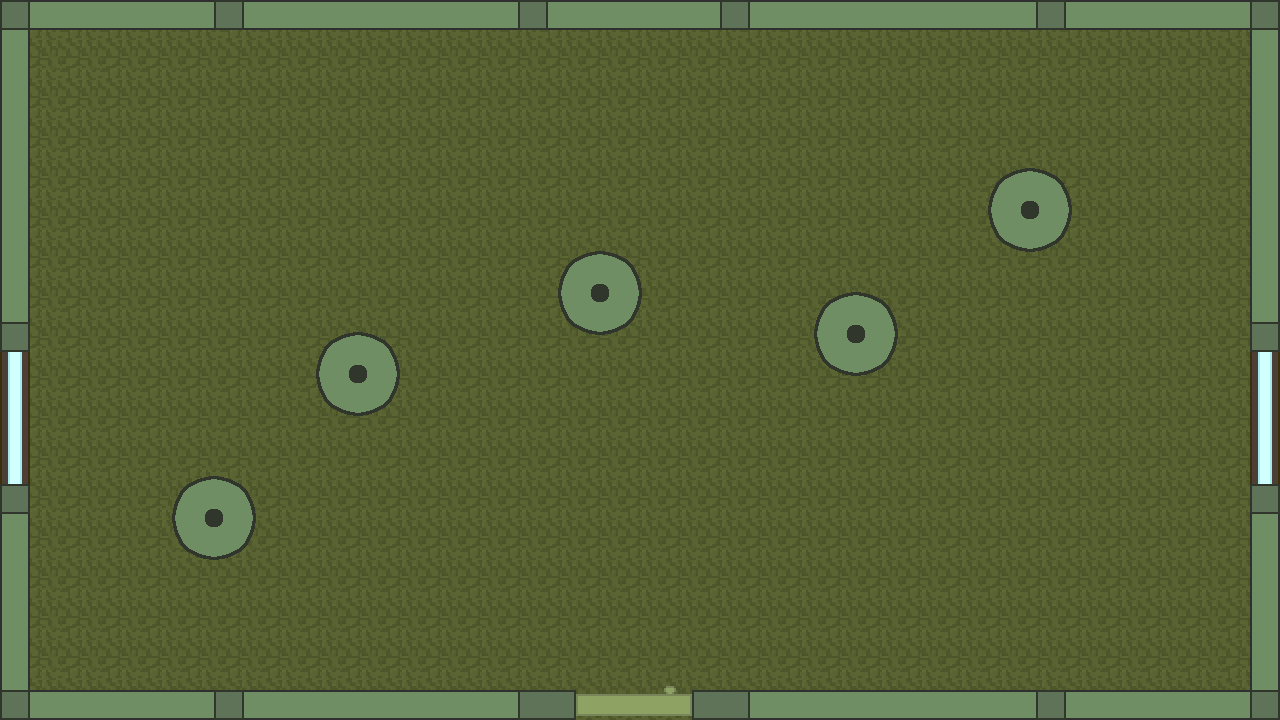
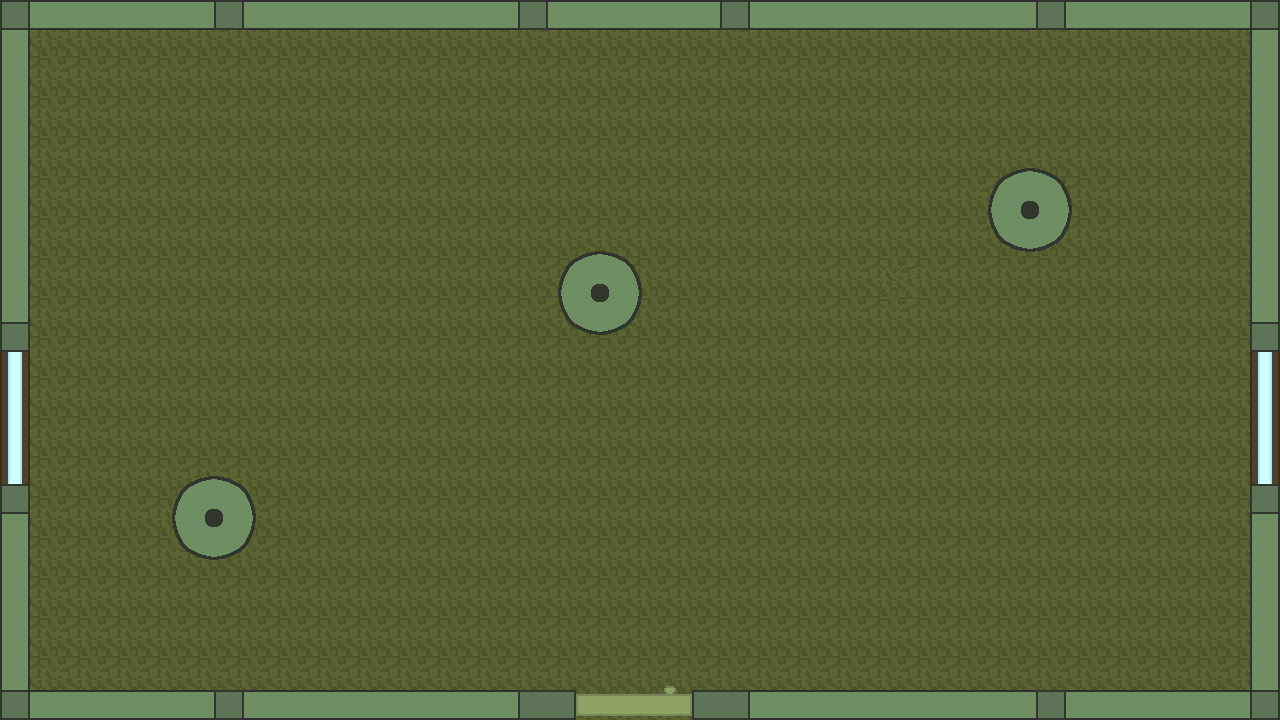
disclaimer + 89 room tweaks
- disclaimer updated to use consistent font
- removed two middle columns (not center) from 8ight 9ine's room
- massive readme update

Changed region(s): [[0.625, 0.3972, 0.7188, 0.5194], [0.25, 0.4583, 0.3125, 0.5806]]

diff --git a/game/enemies.js b/game/enemies.js
@@ -440,10 +440,12 @@ function Thug(game, weapon, x, y) {
         this.weapon.type = 'knife';
         this.faces = 38;
         this.begLag = 110;
-        this.endLag = 45;
+        this.endLag = 35;
         this.hitDur = 14;
         this.range = 90;
         this.ideal = 85;
+        this.maxSpeed = 150;
+        this.mSpeed_init = 150;
     }
     else {
         this.anim.idle = new Animation(ASSET_MANAGER.getAsset('./img/entities/thug_bat.png'), 0, 0, 200, 200, 0.12, 1, true, false);
@@ -457,10 +459,12 @@ function Thug(game, weapon, x, y) {
         this.weapon.type = 'bat';
         this.faces = 28;
         this.begLag = 116;
-        this.endLag = 65;
+        this.endLag = 75;
         this.hitDur = 20;
         this.range = 100;
         this.ideal = 100;
+        this.maxSpeed = 130;
+        this.mSpeed_init = 130;
     }
 
     // Properties
@@ -468,8 +472,6 @@ function Thug(game, weapon, x, y) {
     this.sides = 38;
     this.rotationLag = 15;
     this.acceleration = 100;
-    this.maxSpeed = 140;
-    this.mSpeed_init = 140;
     this.sight = 250;
     this.fov = Math.PI * 2 / 5;
     this.hpDrop = Math.floor(Math.random() * 2) + 1;

diff --git a/game/levels.js b/game/levels.js
@@ -1121,9 +1121,7 @@ SceneManager.prototype.buildBossRoom = function (lvl, boss) {
         walls[3] = new Wall(this.game, 0, 0, 30, 720);
         walls[4] = new Wall(this.game, 0, 690, 576, 30);
         walls[5] = new Column(this.game, 214, 518, 42);
-        walls[6] = new Column(this.game, 358, 374, 42);
         walls[7] = new Column(this.game, 600, 293, 42);
-        walls[8] = new Column(this.game, 856, 334, 42);
         walls[9] = new Column(this.game, 1030, 210, 42);
         door = new Door(this.game, 576, 694, 116, 22);
         spawn = { x: 634, y: 640 };

diff --git a/README.md b/README.md
@@ -1,9 +1,57 @@
-# Blue Four
-TCSS 491 - Computational Worlds
+# Town of Babel
+March 34th of 2020, the town had just finished building the tallest tower the world had seen.
 
-## Members:
-- Dylan Hill
-- James McHugh
+## Team:
+#### Lead Designers:
+    Dylan Hill
+    James McHugh
+**Lead Programmer:** Dylan Hill
+**Lead Artist:** James McHugh
+
+## News
+### March 14, 2020
+Well the due date is here and this is what we've got. Only things done after actual due date are a disclaimer and some tweaks.
+
+Hey guys, Dylan here. Before I get into our upcoming updates I want to share our current base features.
+
+#### Player Ability: Dash
+Your best friend. This ability, activated by pressing (Space) will temporarily lock you in your current velocity, but also speed you up, shrink your hitboxes, and make you immune to damage for its duration plus a very short cooldown period.
+#### Randomly generated Weapons
+- Each weapon drop has a rarity, which is tied to its damage. The higher the rarity, the more damage it does!
+- Every weapon has a chance of dropping at a higher rarity, be on the lookout for these!
+- ##### Abilities
+    - Each weapon has the chance of dropping with one of the following abilities:
+    - **Super Dash:** An additional dash to your normal one. Better in every way.
+    - **Bling Flash:** Stun opponents in a wide area around you.
+    - **Boom Speaker:** Push opponents close to you away, some enemies are less affected.
+    - **Lunge: (Knife Only)** Lunges the player in their facing direction, dealing double damage and providing immunity while doing so.
+    - **Fruitball: (Bat Only)** Smash a fruit in the direction of your mouse with your bat that does triple damage.
+    - **Laser: (Gun Only)** Fires a projectile that does double damage and hits up to three enemies.
+    - *Ability drop rates change based on rarity and location (street vs house)*
+#### Randomly generated Enemies
+The enemies in each location are randomly generated for your replayability! Didn't do so hot because a house spawned enemies you hadn't seen before? Just refresh the page for a new run. There are currently five main enemy types, as follows:
+- **Dog:** Fast but weak, be careful not to ignore them!
+- **Thug (Knife):** Short range but still quick, be warry!
+- **Thug (Bat):** More range but slower movement and swing.
+- **Bodyguard:** Very slow with limited range but has a long range slow windup stun.
+- **Police:** Ranged type with gun, will try to space you. DO NOT IGNORE.
+#### Randomly ordered Bosses
+Whenever you load up a level for the first time, it will select one of the available bosses to put in its boss house. For the first level this is from all four, then the next level selects from the remaining three, and so on. There are currently four bosses:
+- **Slow Dogg:** Wheelchair bound old school rapper. Resident dog keeper.
+    - Fires a shotgun and swings with a cane, calls his dogs occasionally.
+- **J. Swole:** Goes to the gym a lot, some say too much, definitely more than he raps.
+    - Throws out jabs in you get in range, likes to slam the ground with a strong stun.
+- **Itachi 8ight 9ine:** Thinks he's a ninja and a rapper, fails at both.
+    - Throws shurikens frequently, will slash you if you get to close.
+- **Tyson the Caster:** Was given psychic powers by the Tower, now thinks he's the best.
+    - Summons a single floating fruit to target you.
+    - Summons several floating fruit that orbit him, he will also target you with them occasionally.
+
+#### Future Plans
+And now the fun part, what our plans from here are. We do in fact have a final boss planned and with him a fourth level. I don't want to give away too much but I will say he's going to have two phases! Either before him or immediately following (depends on James), the currently existing bosses will get new abilities and redone decision trees. I personally would like to see another enemy added to game (we were thinking suicide bomber) but I don't know that I can squeeze any more out of James than what he's already drawn and will be drawing. I also have plans to add a hard mode to our game, as several veteran gamers like myself find the current iteration too easy. If I can get James to send resources to me I may end up eventually adding a procedurally generated endless mode for the roguelike fans out there, as it was originally intended. Of course along with all of these updates I will be optimizing what I can and changing how things are done because I think it'll work better some new way. If you're really that curious you can follow the updates more closely at [my fork](https://github.com/dhill30/townofbabel.github.io, "dhill30/townofbabel").
+
+Going forward this game has become a passion project, as the assignment portion of it is complete. This means updates, while semi-frequent at first, will most likely completely stop once once I reach what I consider complete for my first real game.
 
 
 ##### Developing Town of Babel since Jan 2020
+Game for TCSS 491 - Computational Worlds
